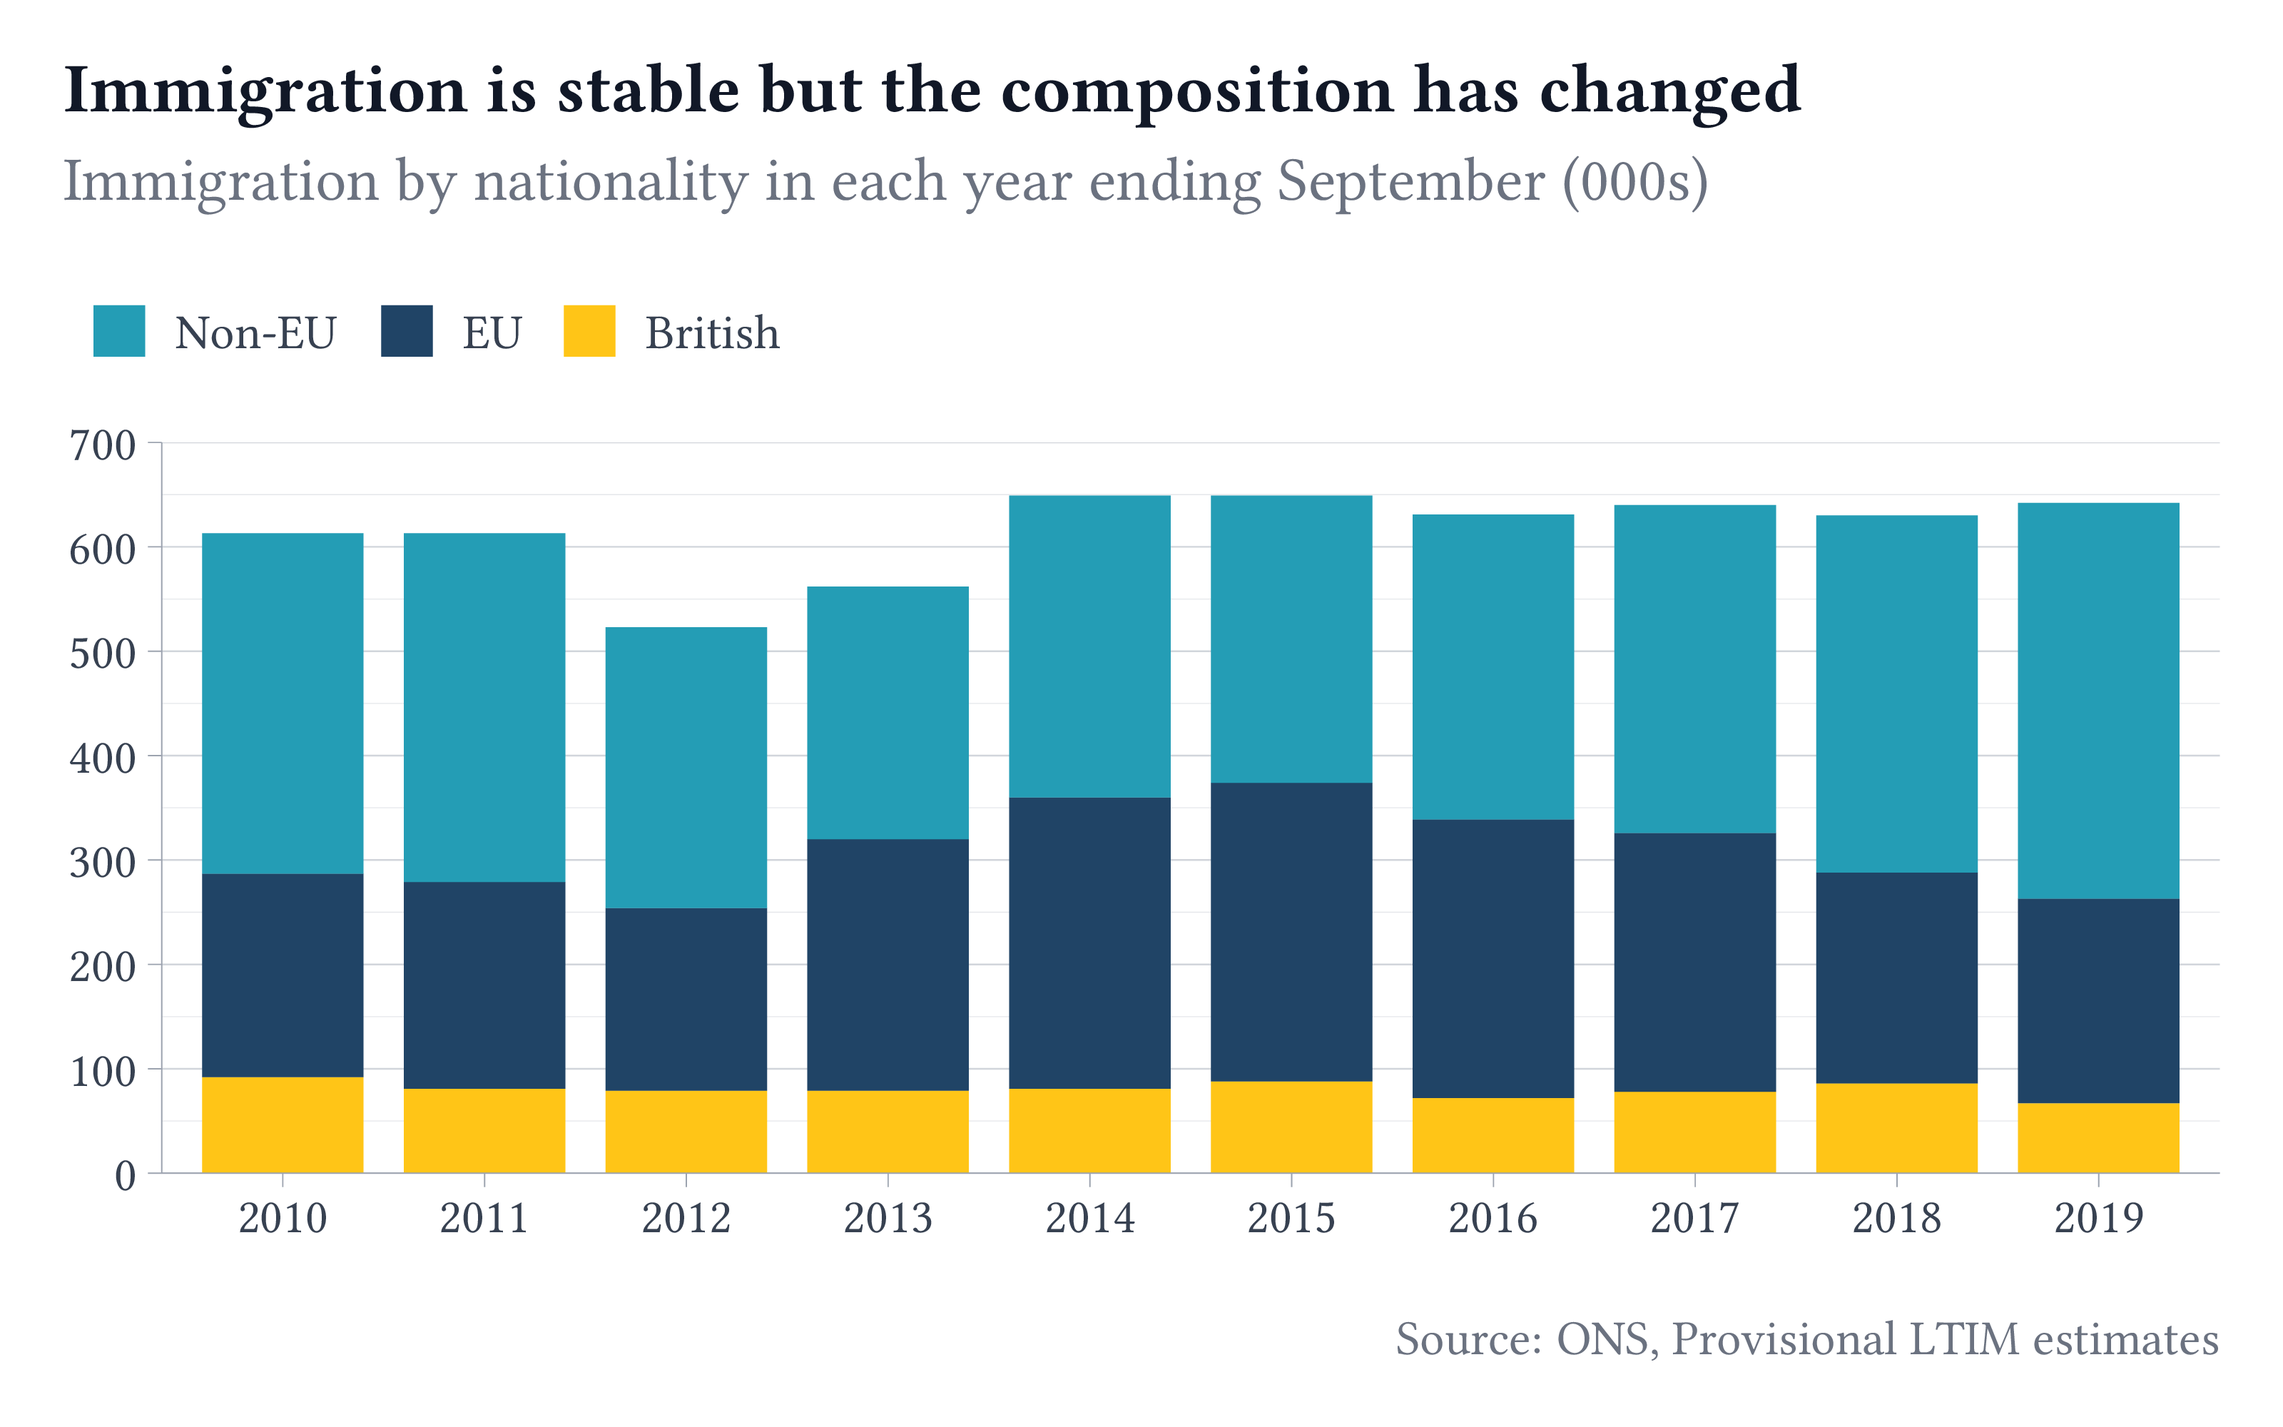
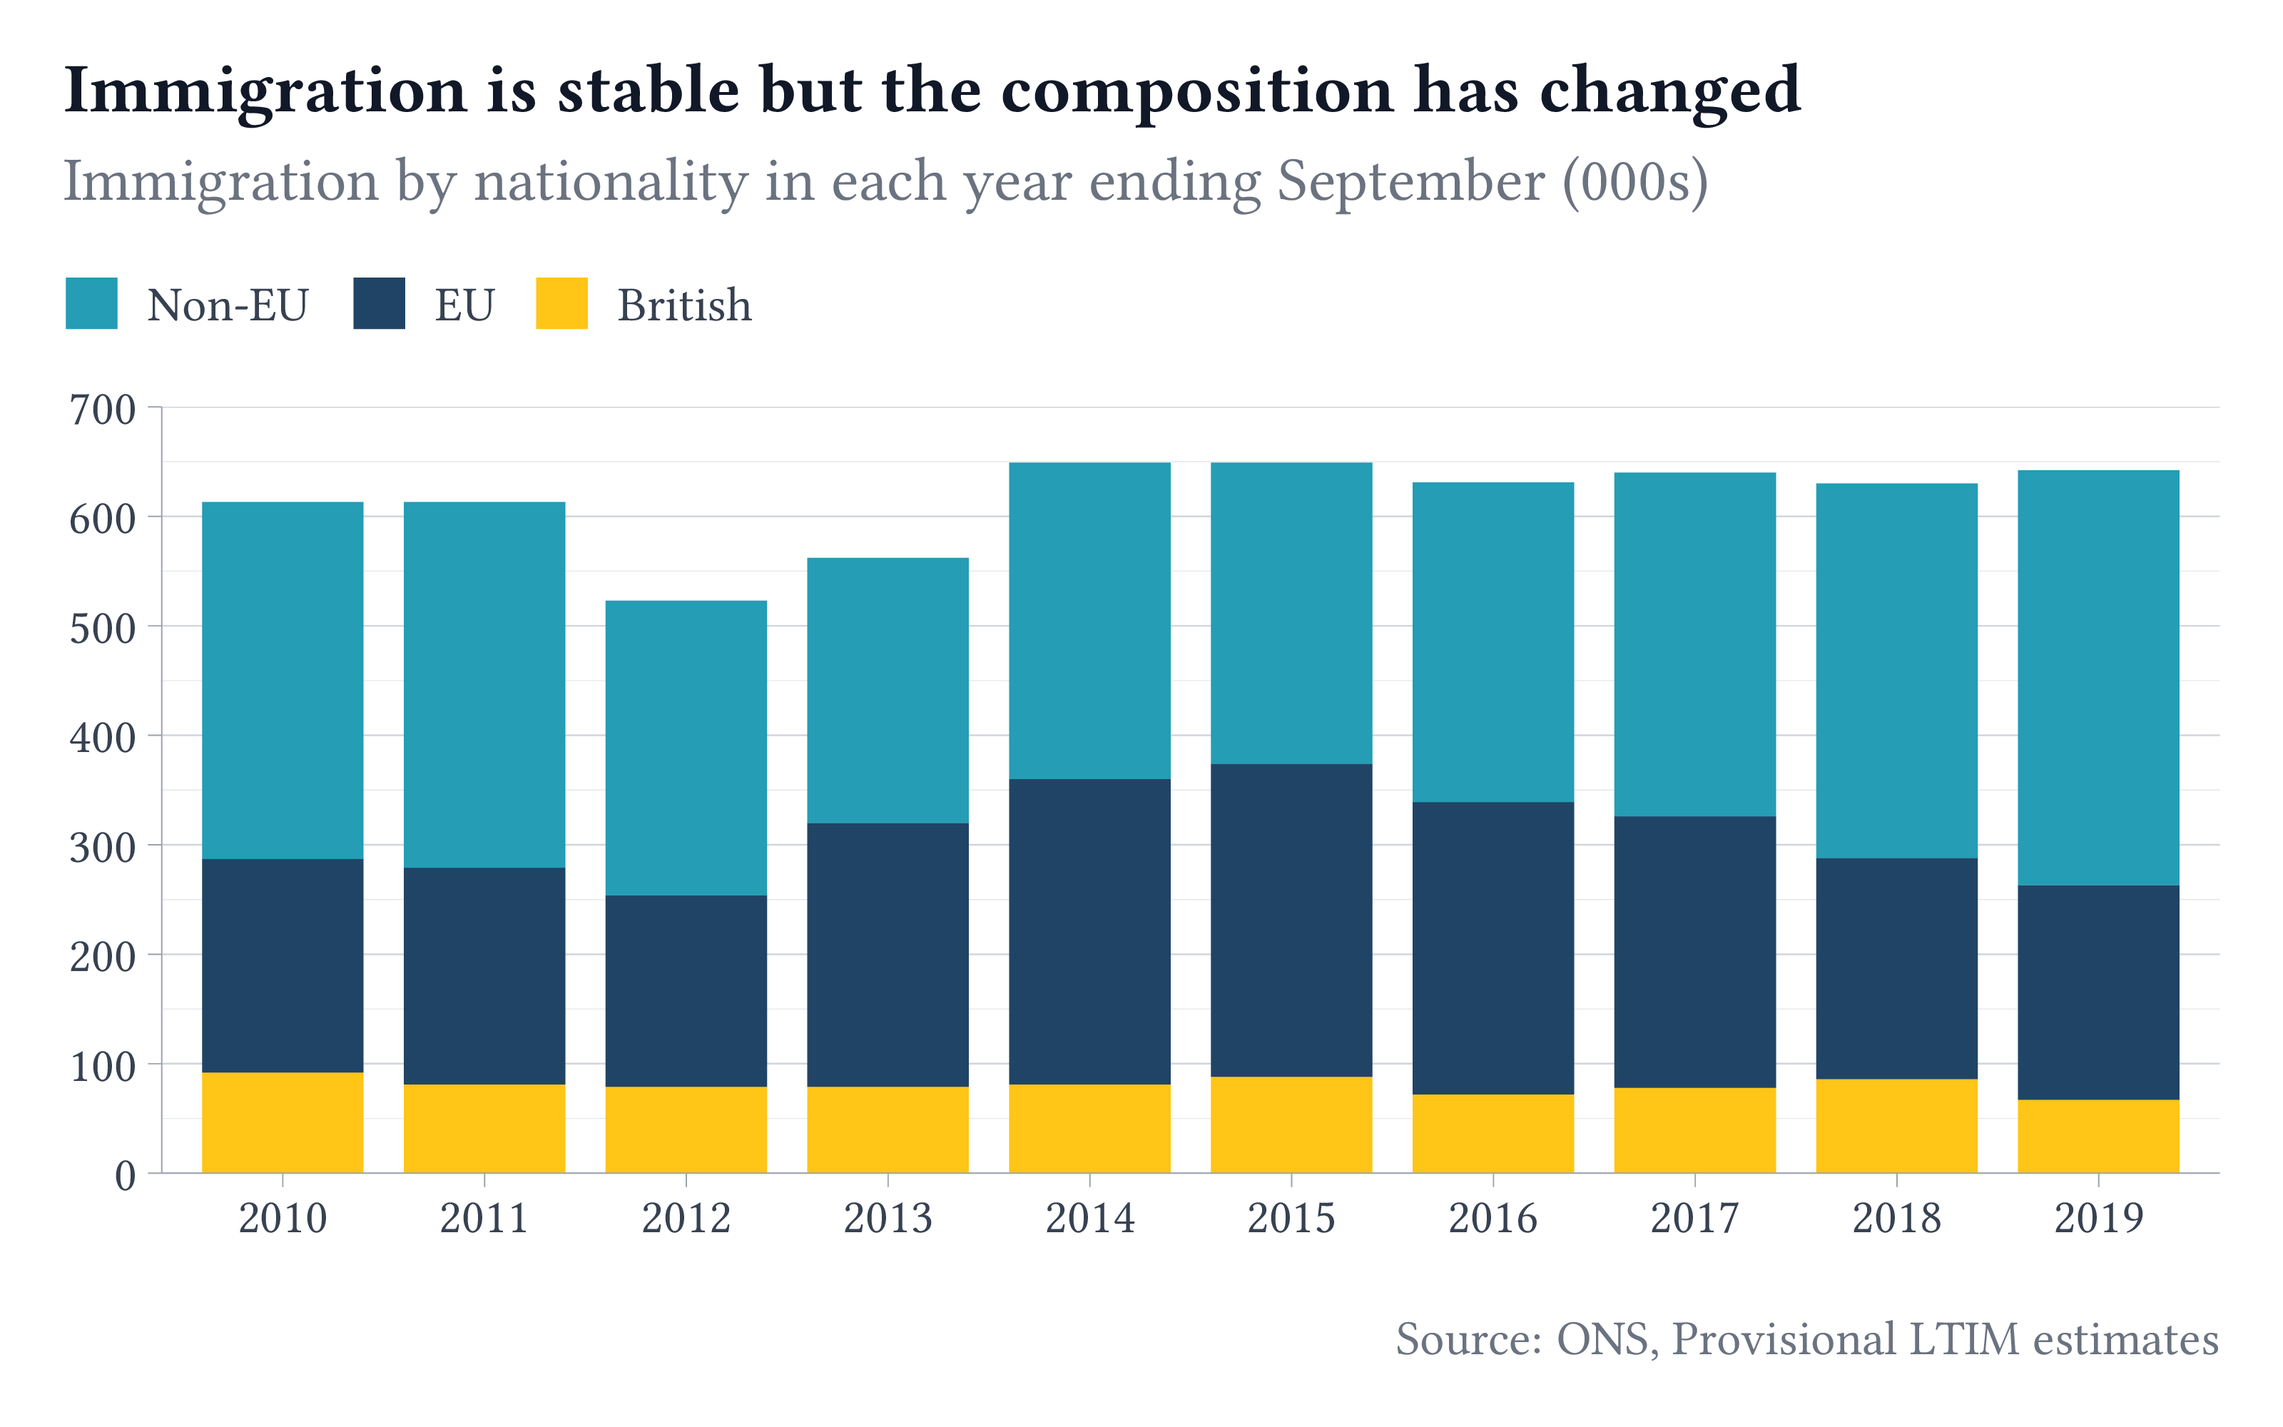
Better align legend on top

diff --git a/gallery/figures/stacked-column-chart.tex b/gallery/figures/stacked-column-chart.tex
@@ -1,4 +1,4 @@
-% Created by tikzDevice version 0.12.6 on 2024-02-19 14:19:22
+% Created by tikzDevice version 0.12.6 on 2024-02-28 10:58:38
 % !TEX encoding = UTF-8 Unicode
 \begin{tikzpicture}[x=1pt,y=1pt]
 \definecolor{fillColor}{RGB}{255,255,255}
@@ -10,130 +10,130 @@
 \path[draw=drawColor,line width= 0.7pt,line join=round,line cap=round,fill=fillColor] (  0.00,  0.00) rectangle (578.16,361.35);
 \end{scope}
 \begin{scope}
-\path[clip] ( 40.96, 64.27) rectangle (562.16,249.31);
+\path[clip] ( 40.96, 64.27) rectangle (562.16,258.31);
 \definecolor{drawColor}{RGB}{255,255,255}
 \definecolor{fillColor}{RGB}{255,255,255}
 
-\path[draw=drawColor,line width= 0.7pt,line join=round,line cap=round,fill=fillColor] ( 40.96, 64.27) rectangle (562.16,249.31);
+\path[draw=drawColor,line width= 0.7pt,line join=round,line cap=round,fill=fillColor] ( 40.96, 64.27) rectangle (562.16,258.31);
 \definecolor{drawColor}{RGB}{229,231,235}
 
-\path[draw=drawColor,line width= 0.2pt,line join=round] ( 40.96, 77.49) --
-	(562.16, 77.49);
+\path[draw=drawColor,line width= 0.2pt,line join=round] ( 40.96, 78.13) --
+	(562.16, 78.13);
 
-\path[draw=drawColor,line width= 0.2pt,line join=round] ( 40.96,103.92) --
-	(562.16,103.92);
+\path[draw=drawColor,line width= 0.2pt,line join=round] ( 40.96,105.85) --
+	(562.16,105.85);
 
-\path[draw=drawColor,line width= 0.2pt,line join=round] ( 40.96,130.36) --
-	(562.16,130.36);
+\path[draw=drawColor,line width= 0.2pt,line join=round] ( 40.96,133.57) --
+	(562.16,133.57);
 
-\path[draw=drawColor,line width= 0.2pt,line join=round] ( 40.96,156.79) --
-	(562.16,156.79);
+\path[draw=drawColor,line width= 0.2pt,line join=round] ( 40.96,161.29) --
+	(562.16,161.29);
 
-\path[draw=drawColor,line width= 0.2pt,line join=round] ( 40.96,183.23) --
-	(562.16,183.23);
+\path[draw=drawColor,line width= 0.2pt,line join=round] ( 40.96,189.01) --
+	(562.16,189.01);
 
-\path[draw=drawColor,line width= 0.2pt,line join=round] ( 40.96,209.66) --
-	(562.16,209.66);
+\path[draw=drawColor,line width= 0.2pt,line join=round] ( 40.96,216.73) --
+	(562.16,216.73);
 
-\path[draw=drawColor,line width= 0.2pt,line join=round] ( 40.96,236.10) --
-	(562.16,236.10);
+\path[draw=drawColor,line width= 0.2pt,line join=round] ( 40.96,244.45) --
+	(562.16,244.45);
 \definecolor{drawColor}{RGB}{209,213,219}
 
 \path[draw=drawColor,line width= 0.4pt,line join=round] ( 40.96, 64.27) --
 	(562.16, 64.27);
 
-\path[draw=drawColor,line width= 0.4pt,line join=round] ( 40.96, 90.71) --
-	(562.16, 90.71);
+\path[draw=drawColor,line width= 0.4pt,line join=round] ( 40.96, 91.99) --
+	(562.16, 91.99);
 
-\path[draw=drawColor,line width= 0.4pt,line join=round] ( 40.96,117.14) --
-	(562.16,117.14);
+\path[draw=drawColor,line width= 0.4pt,line join=round] ( 40.96,119.71) --
+	(562.16,119.71);
 
-\path[draw=drawColor,line width= 0.4pt,line join=round] ( 40.96,143.58) --
-	(562.16,143.58);
+\path[draw=drawColor,line width= 0.4pt,line join=round] ( 40.96,147.43) --
+	(562.16,147.43);
 
-\path[draw=drawColor,line width= 0.4pt,line join=round] ( 40.96,170.01) --
-	(562.16,170.01);
+\path[draw=drawColor,line width= 0.4pt,line join=round] ( 40.96,175.15) --
+	(562.16,175.15);
 
-\path[draw=drawColor,line width= 0.4pt,line join=round] ( 40.96,196.44) --
-	(562.16,196.44);
+\path[draw=drawColor,line width= 0.4pt,line join=round] ( 40.96,202.87) --
+	(562.16,202.87);
 
-\path[draw=drawColor,line width= 0.4pt,line join=round] ( 40.96,222.88) --
-	(562.16,222.88);
+\path[draw=drawColor,line width= 0.4pt,line join=round] ( 40.96,230.59) --
+	(562.16,230.59);
 
-\path[draw=drawColor,line width= 0.4pt,line join=round] ( 40.96,249.31) --
-	(562.16,249.31);
+\path[draw=drawColor,line width= 0.4pt,line join=round] ( 40.96,258.31) --
+	(562.16,258.31);
 \definecolor{fillColor}{RGB}{255,197,23}
 
-\path[fill=fillColor] ( 51.18, 64.27) rectangle ( 92.05, 88.59);
+\path[fill=fillColor] ( 51.18, 64.27) rectangle ( 92.05, 89.77);
 
-\path[fill=fillColor] (102.27, 64.27) rectangle (143.15, 85.68);
+\path[fill=fillColor] (102.27, 64.27) rectangle (143.15, 86.73);
 
-\path[fill=fillColor] (153.37, 64.27) rectangle (194.25, 85.16);
+\path[fill=fillColor] (153.37, 64.27) rectangle (194.25, 86.17);
 
-\path[fill=fillColor] (204.47, 64.27) rectangle (245.35, 85.16);
+\path[fill=fillColor] (204.47, 64.27) rectangle (245.35, 86.17);
 
-\path[fill=fillColor] (255.57, 64.27) rectangle (296.45, 85.68);
+\path[fill=fillColor] (255.57, 64.27) rectangle (296.45, 86.73);
 
-\path[fill=fillColor] (306.67, 64.27) rectangle (347.55, 87.53);
+\path[fill=fillColor] (306.67, 64.27) rectangle (347.55, 88.67);
 
-\path[fill=fillColor] (357.77, 64.27) rectangle (398.64, 83.30);
+\path[fill=fillColor] (357.77, 64.27) rectangle (398.64, 84.23);
 
-\path[fill=fillColor] (408.86, 64.27) rectangle (449.74, 84.89);
+\path[fill=fillColor] (408.86, 64.27) rectangle (449.74, 85.89);
 
-\path[fill=fillColor] (459.96, 64.27) rectangle (500.84, 87.01);
+\path[fill=fillColor] (459.96, 64.27) rectangle (500.84, 88.11);
 
-\path[fill=fillColor] (511.06, 64.27) rectangle (551.94, 81.98);
+\path[fill=fillColor] (511.06, 64.27) rectangle (551.94, 82.84);
 \definecolor{fillColor}{RGB}{32,68,102}
 
-\path[fill=fillColor] ( 51.18, 88.59) rectangle ( 92.05,140.14);
+\path[fill=fillColor] ( 51.18, 89.77) rectangle ( 92.05,143.83);
 
-\path[fill=fillColor] (102.27, 85.68) rectangle (143.15,138.02);
+\path[fill=fillColor] (102.27, 86.73) rectangle (143.15,141.61);
 
-\path[fill=fillColor] (153.37, 85.16) rectangle (194.25,131.42);
+\path[fill=fillColor] (153.37, 86.17) rectangle (194.25,134.68);
 
-\path[fill=fillColor] (204.47, 85.16) rectangle (245.35,148.86);
+\path[fill=fillColor] (204.47, 86.17) rectangle (245.35,152.98);
 
-\path[fill=fillColor] (255.57, 85.68) rectangle (296.45,159.44);
+\path[fill=fillColor] (255.57, 86.73) rectangle (296.45,164.06);
 
-\path[fill=fillColor] (306.67, 87.53) rectangle (347.55,163.14);
+\path[fill=fillColor] (306.67, 88.67) rectangle (347.55,167.95);
 
-\path[fill=fillColor] (357.77, 83.30) rectangle (398.64,153.88);
+\path[fill=fillColor] (357.77, 84.23) rectangle (398.64,158.24);
 
-\path[fill=fillColor] (408.86, 84.89) rectangle (449.74,150.45);
+\path[fill=fillColor] (408.86, 85.89) rectangle (449.74,154.64);
 
-\path[fill=fillColor] (459.96, 87.01) rectangle (500.84,140.40);
+\path[fill=fillColor] (459.96, 88.11) rectangle (500.84,144.11);
 
-\path[fill=fillColor] (511.06, 81.98) rectangle (551.94,133.79);
+\path[fill=fillColor] (511.06, 82.84) rectangle (551.94,137.18);
 \definecolor{fillColor}{RGB}{36,157,181}
 
-\path[fill=fillColor] ( 51.18,140.14) rectangle ( 92.05,226.32);
+\path[fill=fillColor] ( 51.18,143.83) rectangle ( 92.05,234.20);
 
-\path[fill=fillColor] (102.27,138.02) rectangle (143.15,226.32);
+\path[fill=fillColor] (102.27,141.61) rectangle (143.15,234.20);
 
-\path[fill=fillColor] (153.37,131.42) rectangle (194.25,202.52);
+\path[fill=fillColor] (153.37,134.68) rectangle (194.25,209.25);
 
-\path[fill=fillColor] (204.47,148.86) rectangle (245.35,212.83);
+\path[fill=fillColor] (204.47,152.98) rectangle (245.35,220.06);
 
-\path[fill=fillColor] (255.57,159.44) rectangle (296.45,235.83);
+\path[fill=fillColor] (255.57,164.06) rectangle (296.45,244.18);
 
-\path[fill=fillColor] (306.67,163.14) rectangle (347.55,235.83);
+\path[fill=fillColor] (306.67,167.95) rectangle (347.55,244.18);
 
-\path[fill=fillColor] (357.77,153.88) rectangle (398.64,231.07);
+\path[fill=fillColor] (357.77,158.24) rectangle (398.64,239.19);
 
-\path[fill=fillColor] (408.86,150.45) rectangle (449.74,233.45);
+\path[fill=fillColor] (408.86,154.64) rectangle (449.74,241.68);
 
-\path[fill=fillColor] (459.96,140.40) rectangle (500.84,230.81);
+\path[fill=fillColor] (459.96,144.11) rectangle (500.84,238.91);
 
-\path[fill=fillColor] (511.06,133.79) rectangle (551.94,233.98);
+\path[fill=fillColor] (511.06,137.18) rectangle (551.94,242.24);
 
-\path[] ( 40.96, 64.27) rectangle (562.16,249.31);
+\path[] ( 40.96, 64.27) rectangle (562.16,258.31);
 \end{scope}
 \begin{scope}
 \path[clip] (  0.00,  0.00) rectangle (578.16,361.35);
 \definecolor{drawColor}{RGB}{156,163,175}
 
 \path[draw=drawColor,line width= 0.3pt,line join=round] ( 40.96, 64.27) --
-	( 40.96,249.31);
+	( 40.96,258.31);
 \end{scope}
 \begin{scope}
 \path[clip] (  0.00,  0.00) rectangle (578.16,361.35);
@@ -141,19 +141,19 @@
 
 \node[text=drawColor,anchor=base east,inner sep=0pt, outer sep=0pt, scale=  1.24] at ( 34.66, 59.99) {0};
 
-\node[text=drawColor,anchor=base east,inner sep=0pt, outer sep=0pt, scale=  1.24] at ( 34.66, 86.42) {100};
+\node[text=drawColor,anchor=base east,inner sep=0pt, outer sep=0pt, scale=  1.24] at ( 34.66, 87.71) {100};
 
-\node[text=drawColor,anchor=base east,inner sep=0pt, outer sep=0pt, scale=  1.24] at ( 34.66,112.86) {200};
+\node[text=drawColor,anchor=base east,inner sep=0pt, outer sep=0pt, scale=  1.24] at ( 34.66,115.43) {200};
 
-\node[text=drawColor,anchor=base east,inner sep=0pt, outer sep=0pt, scale=  1.24] at ( 34.66,139.29) {300};
+\node[text=drawColor,anchor=base east,inner sep=0pt, outer sep=0pt, scale=  1.24] at ( 34.66,143.15) {300};
 
-\node[text=drawColor,anchor=base east,inner sep=0pt, outer sep=0pt, scale=  1.24] at ( 34.66,165.73) {400};
+\node[text=drawColor,anchor=base east,inner sep=0pt, outer sep=0pt, scale=  1.24] at ( 34.66,170.87) {400};
 
-\node[text=drawColor,anchor=base east,inner sep=0pt, outer sep=0pt, scale=  1.24] at ( 34.66,192.16) {500};
+\node[text=drawColor,anchor=base east,inner sep=0pt, outer sep=0pt, scale=  1.24] at ( 34.66,198.59) {500};
 
-\node[text=drawColor,anchor=base east,inner sep=0pt, outer sep=0pt, scale=  1.24] at ( 34.66,218.60) {600};
+\node[text=drawColor,anchor=base east,inner sep=0pt, outer sep=0pt, scale=  1.24] at ( 34.66,226.31) {600};
 
-\node[text=drawColor,anchor=base east,inner sep=0pt, outer sep=0pt, scale=  1.24] at ( 34.66,245.03) {700};
+\node[text=drawColor,anchor=base east,inner sep=0pt, outer sep=0pt, scale=  1.24] at ( 34.66,254.03) {700};
 \end{scope}
 \begin{scope}
 \path[clip] (  0.00,  0.00) rectangle (578.16,361.35);
@@ -162,26 +162,26 @@
 \path[draw=drawColor,line width= 0.3pt,line join=round] ( 37.46, 64.27) --
 	( 40.96, 64.27);
 
-\path[draw=drawColor,line width= 0.3pt,line join=round] ( 37.46, 90.71) --
-	( 40.96, 90.71);
+\path[draw=drawColor,line width= 0.3pt,line join=round] ( 37.46, 91.99) --
+	( 40.96, 91.99);
 
-\path[draw=drawColor,line width= 0.3pt,line join=round] ( 37.46,117.14) --
-	( 40.96,117.14);
+\path[draw=drawColor,line width= 0.3pt,line join=round] ( 37.46,119.71) --
+	( 40.96,119.71);
 
-\path[draw=drawColor,line width= 0.3pt,line join=round] ( 37.46,143.58) --
-	( 40.96,143.58);
+\path[draw=drawColor,line width= 0.3pt,line join=round] ( 37.46,147.43) --
+	( 40.96,147.43);
 
-\path[draw=drawColor,line width= 0.3pt,line join=round] ( 37.46,170.01) --
-	( 40.96,170.01);
+\path[draw=drawColor,line width= 0.3pt,line join=round] ( 37.46,175.15) --
+	( 40.96,175.15);
 
-\path[draw=drawColor,line width= 0.3pt,line join=round] ( 37.46,196.44) --
-	( 40.96,196.44);
+\path[draw=drawColor,line width= 0.3pt,line join=round] ( 37.46,202.87) --
+	( 40.96,202.87);
 
-\path[draw=drawColor,line width= 0.3pt,line join=round] ( 37.46,222.88) --
-	( 40.96,222.88);
+\path[draw=drawColor,line width= 0.3pt,line join=round] ( 37.46,230.59) --
+	( 40.96,230.59);
 
-\path[draw=drawColor,line width= 0.3pt,line join=round] ( 37.46,249.31) --
-	( 40.96,249.31);
+\path[draw=drawColor,line width= 0.3pt,line join=round] ( 37.46,258.31) --
+	( 40.96,258.31);
 \end{scope}
 \begin{scope}
 \path[clip] (  0.00,  0.00) rectangle (578.16,361.35);
@@ -252,64 +252,64 @@
 \path[clip] (  0.00,  0.00) rectangle (578.16,361.35);
 \definecolor{fillColor}{RGB}{255,255,255}
 
-\path[fill=fillColor] ( 16.00,263.31) rectangle (207.79,291.77);
+\path[fill=fillColor] ( 16.00,272.31) rectangle (193.79,291.77);
 \end{scope}
 \begin{scope}
 \path[clip] (  0.00,  0.00) rectangle (578.16,361.35);
 \definecolor{drawColor}{RGB}{255,255,255}
 \definecolor{fillColor}{RGB}{255,255,255}
 
-\path[draw=drawColor,line width= 0.7pt,line join=round,line cap=round,fill=fillColor] ( 23.00,270.31) rectangle ( 37.45,284.77);
+\path[draw=drawColor,line width= 0.7pt,line join=round,line cap=round,fill=fillColor] ( 16.00,277.31) rectangle ( 30.45,291.77);
 \end{scope}
 \begin{scope}
 \path[clip] (  0.00,  0.00) rectangle (578.16,361.35);
 \definecolor{fillColor}{RGB}{36,157,181}
 
-\path[fill=fillColor] ( 23.71,271.02) rectangle ( 36.74,284.06);
+\path[fill=fillColor] ( 16.71,278.02) rectangle ( 29.74,291.06);
 \end{scope}
 \begin{scope}
 \path[clip] (  0.00,  0.00) rectangle (578.16,361.35);
 \definecolor{drawColor}{RGB}{255,255,255}
 \definecolor{fillColor}{RGB}{255,255,255}
 
-\path[draw=drawColor,line width= 0.7pt,line join=round,line cap=round,fill=fillColor] ( 95.85,270.31) rectangle (110.30,284.77);
+\path[draw=drawColor,line width= 0.7pt,line join=round,line cap=round,fill=fillColor] ( 88.85,277.31) rectangle (103.30,291.77);
 \end{scope}
 \begin{scope}
 \path[clip] (  0.00,  0.00) rectangle (578.16,361.35);
 \definecolor{fillColor}{RGB}{32,68,102}
 
-\path[fill=fillColor] ( 96.56,271.02) rectangle (109.59,284.06);
+\path[fill=fillColor] ( 89.56,278.02) rectangle (102.59,291.06);
 \end{scope}
 \begin{scope}
 \path[clip] (  0.00,  0.00) rectangle (578.16,361.35);
 \definecolor{drawColor}{RGB}{255,255,255}
 \definecolor{fillColor}{RGB}{255,255,255}
 
-\path[draw=drawColor,line width= 0.7pt,line join=round,line cap=round,fill=fillColor] (142.09,270.31) rectangle (156.55,284.77);
+\path[draw=drawColor,line width= 0.7pt,line join=round,line cap=round,fill=fillColor] (135.09,277.31) rectangle (149.55,291.77);
 \end{scope}
 \begin{scope}
 \path[clip] (  0.00,  0.00) rectangle (578.16,361.35);
 \definecolor{fillColor}{RGB}{255,197,23}
 
-\path[fill=fillColor] (142.80,271.02) rectangle (155.84,284.06);
+\path[fill=fillColor] (135.80,278.02) rectangle (148.84,291.06);
 \end{scope}
 \begin{scope}
 \path[clip] (  0.00,  0.00) rectangle (578.16,361.35);
 \definecolor{drawColor}{RGB}{55,65,81}
 
-\node[text=drawColor,anchor=base west,inner sep=0pt, outer sep=0pt, scale=  1.24] at ( 44.45,273.26) {Non-EU};
+\node[text=drawColor,anchor=base west,inner sep=0pt, outer sep=0pt, scale=  1.24] at ( 37.45,280.26) {Non-EU};
 \end{scope}
 \begin{scope}
 \path[clip] (  0.00,  0.00) rectangle (578.16,361.35);
 \definecolor{drawColor}{RGB}{55,65,81}
 
-\node[text=drawColor,anchor=base west,inner sep=0pt, outer sep=0pt, scale=  1.24] at (117.30,273.26) {EU};
+\node[text=drawColor,anchor=base west,inner sep=0pt, outer sep=0pt, scale=  1.24] at (110.30,280.26) {EU};
 \end{scope}
 \begin{scope}
 \path[clip] (  0.00,  0.00) rectangle (578.16,361.35);
 \definecolor{drawColor}{RGB}{55,65,81}
 
-\node[text=drawColor,anchor=base west,inner sep=0pt, outer sep=0pt, scale=  1.24] at (163.55,273.26) {British};
+\node[text=drawColor,anchor=base west,inner sep=0pt, outer sep=0pt, scale=  1.24] at (156.55,280.26) {British};
 \end{scope}
 \begin{scope}
 \path[clip] (  0.00,  0.00) rectangle (578.16,361.35);
